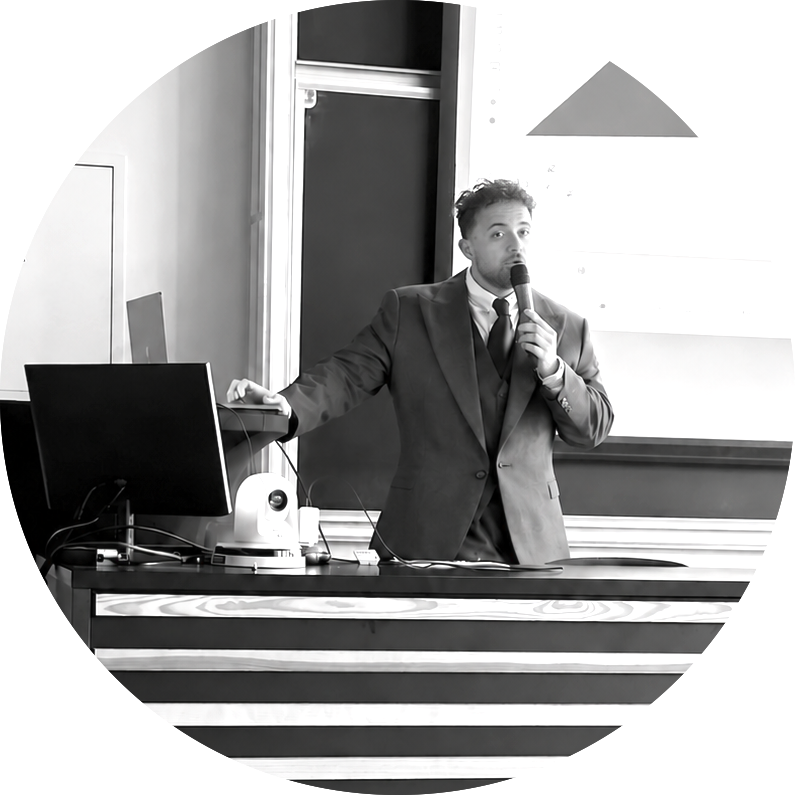
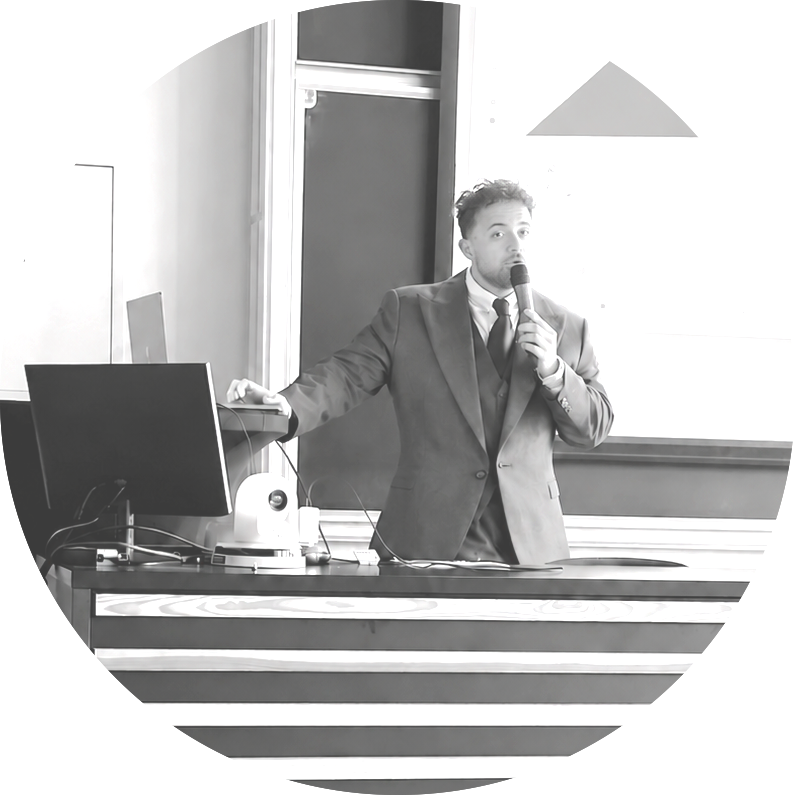
k

diff --git a/_pages/research.md b/_pages/research.md
@@ -434,9 +434,8 @@ details.pub[open] > summary .pub-badge .arrow {
     font-size: .88rem;
   }
   .thesis-jury {
-    padding: .85rem;
-    border: 1px solid var(--content-line);
-    border-radius: 11px;
+    padding: 0;
+    border: 0;
   }
   .jury-grid {
     columns: 2;
@@ -488,8 +487,8 @@ details.pub[open] > summary .pub-badge .arrow {
     line-height: 1.42;
   }
   .thesis-abstract {
-    padding-top: 1rem;
-    border-top: 1px solid var(--content-line);
+    padding-top: 0;
+    border-top: 0;
     color: var(--global-text-color);
     font-size: .72rem;
     line-height: 1.68;
